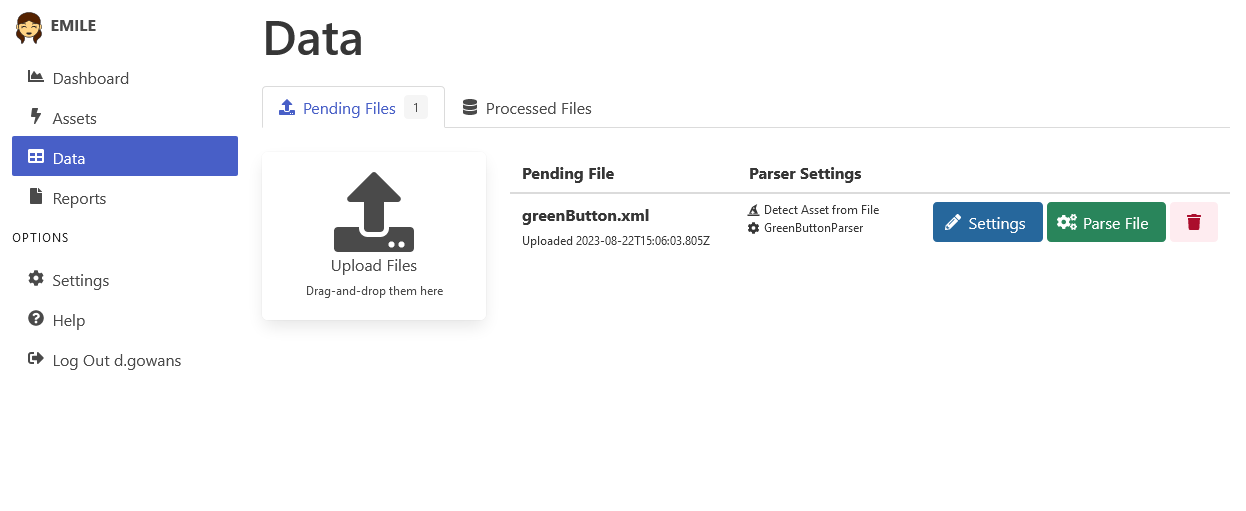
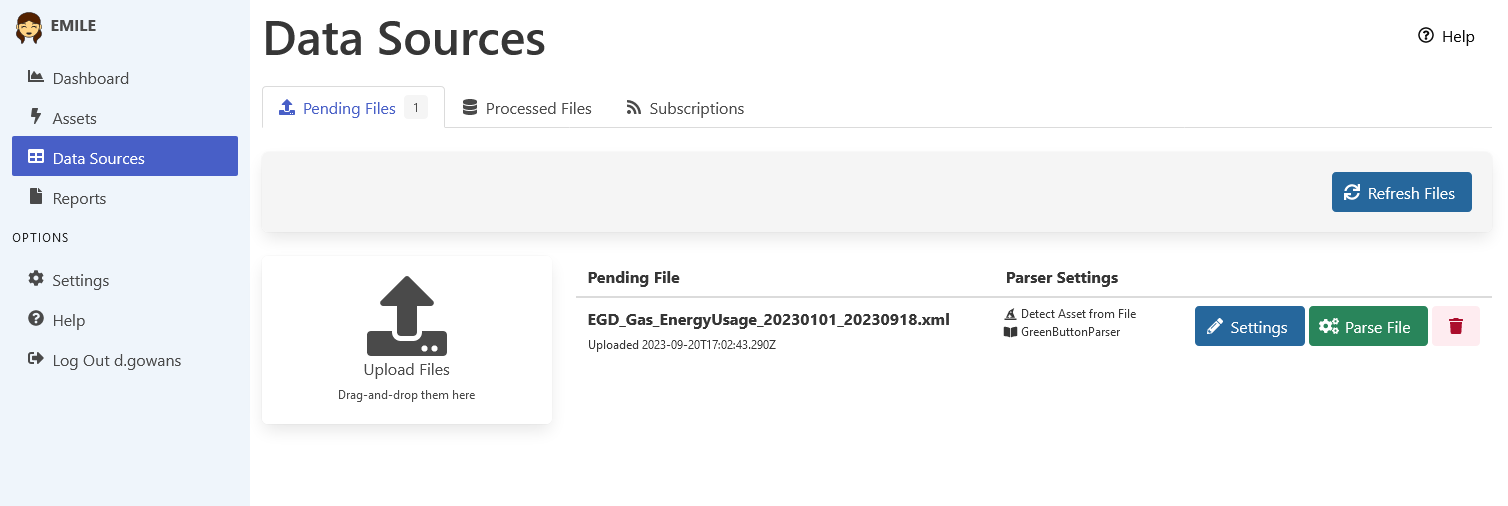
documentation

diff --git a/public/javascripts/adminDatabase.min.js b/public/javascripts/adminDatabase.min.js
@@ -1,1 +1,1 @@
-"use strict";Object.defineProperty(exports,"__esModule",{value:!0}),(()=>{var e,a;const t=exports.Emile;let s=exports.backupFiles;function n(e){var a,n;const o=null!==(n=null===(a=e.currentTarget.closest("tr"))||void 0===a?void 0:a.dataset.fileName)&&void 0!==n?n:"";bulmaJS.confirm({title:"Delete Backup File",message:"Are you sure you want to delete this backed up database file?",contextualColorName:"warning",okButton:{text:"Yes, Delete Backup File",callbackFunction:function(){cityssm.postJSON(`${t.urlPrefix}/admin/doDeleteBackupFile`,{fileName:o},e=>{const a=e;a.success?(s=a.backupFiles,bulmaJS.alert({message:"Database backup deleted up successfully.",contextualColorName:"success"}),l()):bulmaJS.alert({title:"Error Deleting Backup File",message:"Please try again.",contextualColorName:"danger"})})}}})}function l(){var e,a;const l=document.querySelector("#container--backupFiles");if(0!==s.length){l.innerHTML='<table class="table is-fullwidth is-striped is-hoverable has-sticky-header">\n      <thead><tr>\n        <th>Backup File Name</th>\n        <th>Last Modified</th>\n        <th class="has-text-right">File Size</th>\n        <th class="has-width-10"><span class="is-sr-only">Options</span></td>\n      </tr></thead>\n      <tbody></tbody>\n      </table>';for(const o of s){const s=document.createElement("tr");s.dataset.fileName=o.fileName,s.innerHTML=`<td>${o.fileName}</td>\n        <td>${o.lastModifiedTime}</td>\n        <td class="has-text-right">${o.sizeInMegabytes} MB</td>\n        <td>\n          <div class="field is-grouped">\n            <div class="control">\n              <a class="button is-link" href="${t.urlPrefix}/backups/${o.fileName}" download>\n                <span class="icon"><i class="fas fa-download" aria-hidden="true"></i></span>\n                <span>Download</span>\n              </a>\n            </div>\n            <div class="control">\n              <button class="button is-light is-danger is-delete-button" aria-label="Delete Backup">\n                <i class="fas fa-trash" aria-hidden="true"></i>\n              </button>\n            </div>\n          </div>\n        </td>`,null===(e=s.querySelector(".is-delete-button"))||void 0===e||e.addEventListener("click",n),null===(a=l.querySelector("tbody"))||void 0===a||a.append(s)}}else l.innerHTML='<div class="message is-info">\n        <p class="message-body">\n        <strong>There are no backup files in the application\'s backup folder.</strong><br />\n        Note that your systems administrator may be backing up the database in another way.\n        </p>\n        </div>'}function o(){cityssm.postJSON(`${t.urlPrefix}/admin/doBackupDatabase`,{},e=>{const a=e;a.success?(s=a.backupFiles,bulmaJS.alert({message:"Database backed up successfully.",contextualColorName:"success"}),l()):bulmaJS.alert({title:"Error Backing Up Database",message:"Please try again.",contextualColorName:"danger"})})}function i(){cityssm.postJSON(`${t.urlPrefix}/admin/doCleanupDatabase`,{},e=>{const a=e;a.success?bulmaJS.alert({title:"Database Cleaned Up Successfully.",message:`${a.deleteCount} record(s) permanently deleted.`,contextualColorName:"success"}):bulmaJS.alert({title:"Error Cleaning Up Database",message:"Please try again.",contextualColorName:"danger"})})}null===(e=document.querySelector(".is-backup-button"))||void 0===e||e.addEventListener("click",()=>{bulmaJS.confirm({title:"Backup Database",message:"Are you sure you want to backup the application's database?",contextualColorName:"info",okButton:{text:"Yes, Backup Database",callbackFunction:o}})}),null===(a=document.querySelector(".is-cleanup-button"))||void 0===a||a.addEventListener("click",()=>{bulmaJS.confirm({title:"Cleanup Database",message:"<strong>Are you sure you want to cleanup the database?</strong><br />\n        The cleanup process may speed up the application by purging previously deleted records.",messageIsHtml:!0,contextualColorName:"warning",okButton:{text:"Yes, Cleanup Database",callbackFunction:i}})}),l()})();
+"use strict";Object.defineProperty(exports,"__esModule",{value:!0}),(()=>{var e,a;const t=exports.Emile;let s=exports.backupFiles;function n(e){var a,n;const o=null!==(n=null===(a=e.currentTarget.closest("tr"))||void 0===a?void 0:a.dataset.fileName)&&void 0!==n?n:"";bulmaJS.confirm({title:"Delete Backup File",message:"Are you sure you want to delete this backed up database file?",contextualColorName:"warning",okButton:{text:"Yes, Delete Backup File",callbackFunction:function(){cityssm.postJSON(`${t.urlPrefix}/admin/doDeleteBackupFile`,{fileName:o},e=>{const a=e;a.success?(s=a.backupFiles,bulmaJS.alert({message:"Database backup deleted up successfully.",contextualColorName:"success"}),l()):bulmaJS.alert({title:"Error Deleting Backup File",message:"Please try again.",contextualColorName:"danger"})})}}})}function l(){var e,a;const l=document.querySelector("#container--backupFiles");if(0!==s.length){l.innerHTML='<table class="table is-fullwidth is-striped is-hoverable has-sticky-header">\n      <thead><tr>\n        <th>Backup File Name</th>\n        <th>Last Modified</th>\n        <th class="has-text-right">File Size</th>\n        <th class="has-width-10"><span class="is-sr-only">Options</span></td>\n      </tr></thead>\n      <tbody></tbody>\n      </table>';for(const o of s){const s=document.createElement("tr");s.dataset.fileName=o.fileName,s.innerHTML=`<td>${o.fileName}</td>\n        <td>${o.lastModifiedTime}</td>\n        <td class="has-text-right">${o.sizeInMegabytes.toFixed(2)} MB</td>\n        <td>\n          <div class="field is-grouped">\n            <div class="control">\n              <a class="button is-link" href="${t.urlPrefix}/backups/${o.fileName}" download>\n                <span class="icon"><i class="fas fa-download" aria-hidden="true"></i></span>\n                <span>Download</span>\n              </a>\n            </div>\n            <div class="control">\n              <button class="button is-light is-danger is-delete-button" aria-label="Delete Backup">\n                <i class="fas fa-trash" aria-hidden="true"></i>\n              </button>\n            </div>\n          </div>\n        </td>`,null===(e=s.querySelector(".is-delete-button"))||void 0===e||e.addEventListener("click",n),null===(a=l.querySelector("tbody"))||void 0===a||a.append(s)}}else l.innerHTML='<div class="message is-info">\n        <p class="message-body">\n        <strong>There are no backup files in the application\'s backup folder.</strong><br />\n        Note that your systems administrator may be backing up the database in another way.\n        </p>\n        </div>'}function o(){cityssm.postJSON(`${t.urlPrefix}/admin/doBackupDatabase`,{},e=>{const a=e;a.success?(s=a.backupFiles,bulmaJS.alert({message:"Database backed up successfully.",contextualColorName:"success"}),l()):bulmaJS.alert({title:"Error Backing Up Database",message:"Please try again.",contextualColorName:"danger"})})}function i(){cityssm.postJSON(`${t.urlPrefix}/admin/doCleanupDatabase`,{},e=>{const a=e;a.success?bulmaJS.alert({title:"Database Cleaned Up Successfully.",message:`${a.deleteCount} record(s) permanently deleted.`,contextualColorName:"success"}):bulmaJS.alert({title:"Error Cleaning Up Database",message:"Please try again.",contextualColorName:"danger"})})}null===(e=document.querySelector(".is-backup-button"))||void 0===e||e.addEventListener("click",()=>{bulmaJS.confirm({title:"Backup Database",message:"Are you sure you want to backup the application's database?",contextualColorName:"info",okButton:{text:"Yes, Backup Database",callbackFunction:o}})}),null===(a=document.querySelector(".is-cleanup-button"))||void 0===a||a.addEventListener("click",()=>{bulmaJS.confirm({title:"Cleanup Database",message:"<strong>Are you sure you want to cleanup the database?</strong><br />\n        The cleanup process may speed up the application by purging previously deleted records.",messageIsHtml:!0,contextualColorName:"warning",okButton:{text:"Yes, Cleanup Database",callbackFunction:i}})}),l()})();

diff --git a/public-typescript/adminDatabase.js b/public-typescript/adminDatabase.js
@@ -68,7 +68,7 @@ Object.defineProperty(exports, "__esModule", { value: true });
             rowElement.dataset.fileName = backupFile.fileName;
             rowElement.innerHTML = `<td>${backupFile.fileName}</td>
         <td>${backupFile.lastModifiedTime}</td>
-        <td class="has-text-right">${backupFile.sizeInMegabytes} MB</td>
+        <td class="has-text-right">${backupFile.sizeInMegabytes.toFixed(2)} MB</td>
         <td>
           <div class="field is-grouped">
             <div class="control">

diff --git a/public-typescript/adminDatabase.ts b/public-typescript/adminDatabase.ts
@@ -98,7 +98,7 @@ declare const cityssm: cityssmGlobal
 
       rowElement.innerHTML = `<td>${backupFile.fileName}</td>
         <td>${backupFile.lastModifiedTime}</td>
-        <td class="has-text-right">${backupFile.sizeInMegabytes} MB</td>
+        <td class="has-text-right">${backupFile.sizeInMegabytes.toFixed(2)} MB</td>
         <td>
           <div class="field is-grouped">
             <div class="control">

diff --git a/docs/dataSources.md b/docs/dataSources.md
@@ -4,4 +4,36 @@
 
 # Data Sources
 
-![Data](images/data-pendingFiles.png)
+![Data Sources](images/data-pendingFiles.png)
+
+**Data Sources** are the places where energy data comes from.
+
+Uploaded data files can be the following types.
+
+- CSV files.
+- Microsoft Excel files.
+- [Green Button Download My Data® (DMD)](https://www.greenbuttonalliance.org/green-button-download-my-data-dmd) XML files.
+
+Only files with defined parsers can be uploaded.
+In the case of CSV and Excel files, those parsers are defined in EMILE's config file.
+
+![Data Subscriptions](images/data-subscriptions.png)
+
+EMILE also has the ability to receive data automatically using the
+[Green Button Connect My Data® (CMD)](https://www.greenbuttonalliance.org/green-button-connect-my-data-cmd) standard.
+
+⭐ Note that before EMILE can connect to your utility's servers,
+you need to go through a third party application registration process
+with the utility. Each utility provider has a unique registration
+process, but once registered, should function similarly.
+
+Tested Green Button® CMD implementations include:
+
+- [PUC Services provided through Utility API](https://greenbutton.ssmpuc.com/).
+
+For more information on tested implementations, see the
+[Green Button® Subscriber for Node repository](https://github.com/cityssm/node-green-button-subscriber).
+
+## Trademarks
+
+® GREEN BUTTON is a registered trademark owned by Departments of the U.S. Government.

diff --git a/docs/dashboard.md b/docs/dashboard.md
@@ -5,3 +5,15 @@
 # EMILE Dashboard
 
 ![Dashboard](images/dashboard.png)
+
+EMILE provides limited charting options, filtered by:
+
+- Asset, Asset Category, or Asset Group.
+- Start Date.
+- End Date.
+
+The data for each chart can be exported using the corresponding "Export" button.
+
+Note that selecting a large number of assets and a large time range
+can cause performance issues.  For more complex reporting, it is recommended to export the data
+into a reporting application like Microsoft Excel or Microsoft Power BI.

diff --git a/docs/assets.md b/docs/assets.md
@@ -5,3 +5,10 @@
 # Assets
 
 ![Assets](images/assets.png)
+
+**Assets** describe any entity that consumes energy. Arenas, administrative buildings,
+and parks are all assets that may consume multiple energy types,
+like electricity, natural gas, and water. EMILE can track multiple energy types
+on each of the assets it tracks.
+
+**Asset Groups** are a way to group together assets for the purpose of reporting on them together.

diff --git a/docs/README.md b/docs/README.md
@@ -14,7 +14,7 @@ Filter and view energy data in charts and tables.
 [**Assets**](assets.md)<br />
 Manage tracked assets. Create groups of assets for easier reporting.
 
-[**Data**](data.md)<br />
+[**Data Sources**](data.md)<br />
 Add new energy data from supporting input files.
 
 [**Reports**](reports.md)<br />
